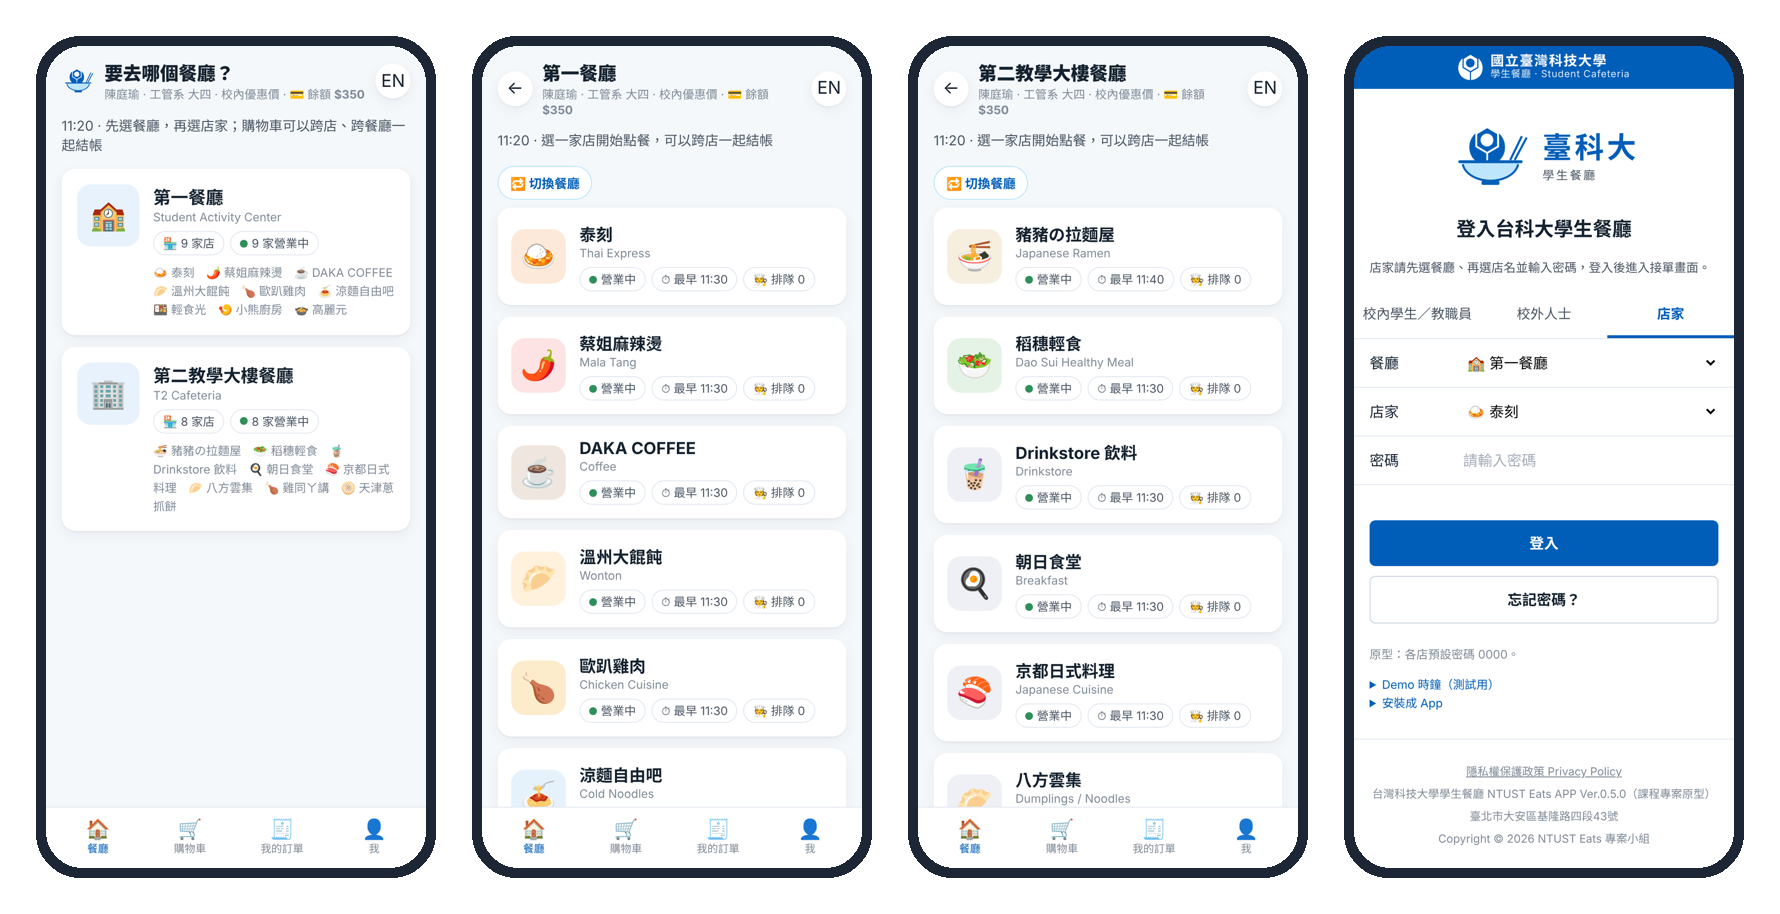
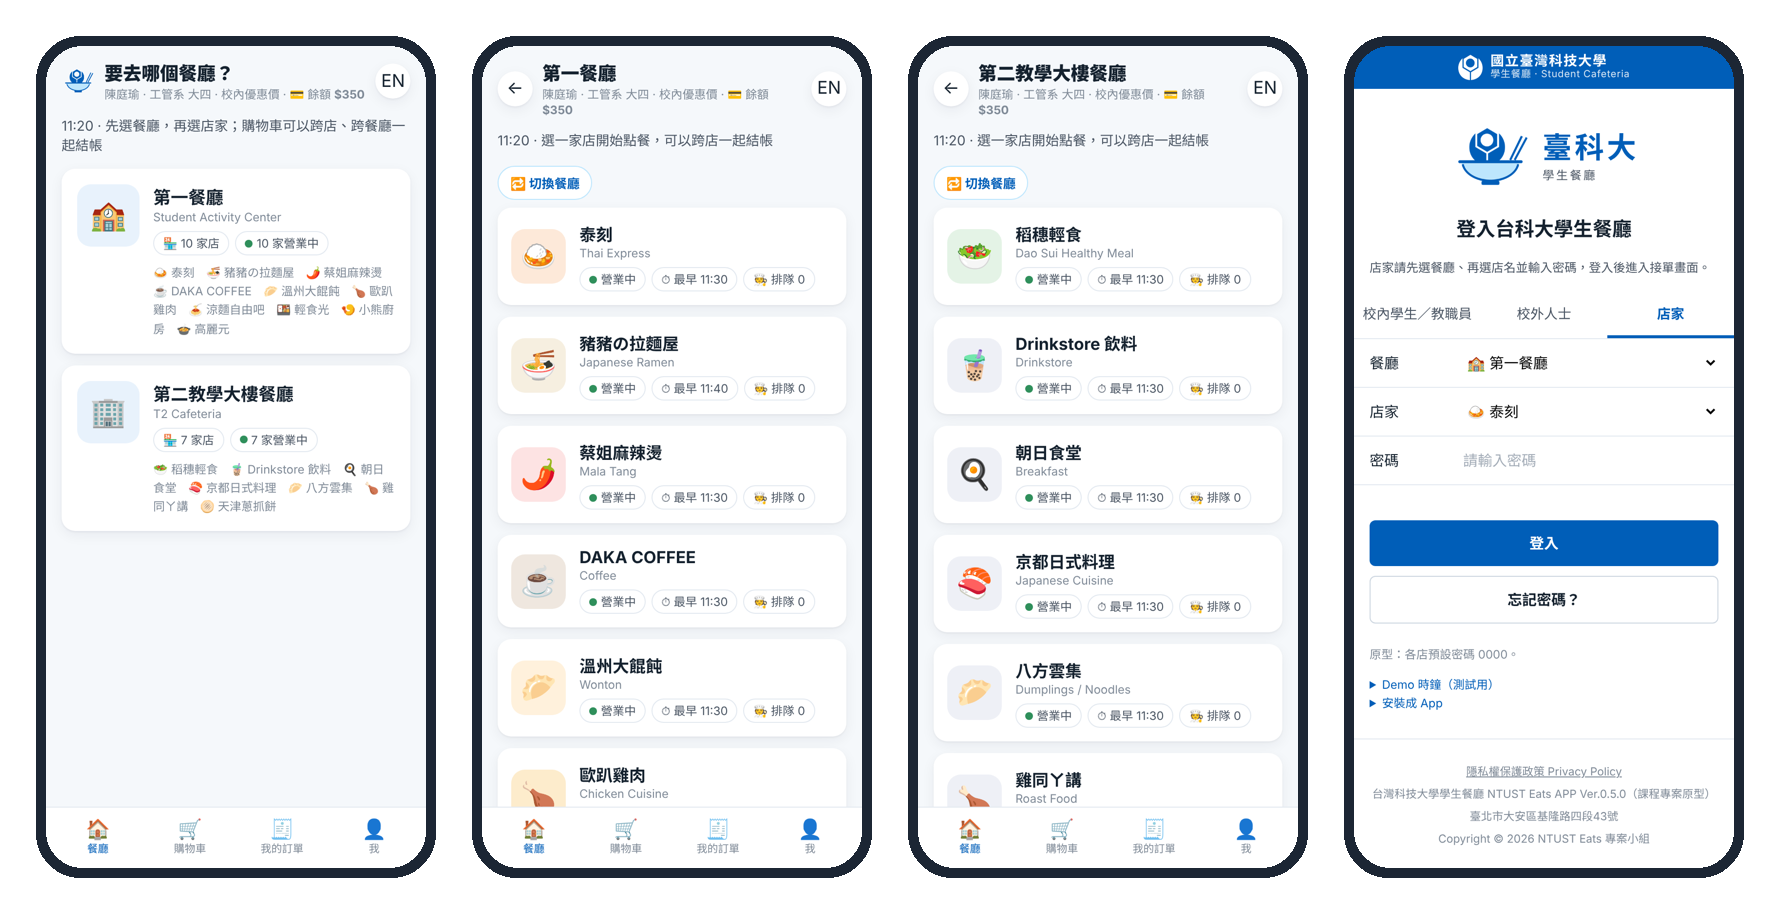
README：拉麵屋改屬第一餐廳、截圖更新
Claude-Session: https://claude.ai/code/session_017jSi1PNAT7cMJzLBuDKtYd

diff --git a/README.md b/README.md
@@ -5,8 +5,8 @@
 中午 12:10 下課、1:20 又要上課，泰刻和麻辣燙常排隊 20 分鐘。台科學餐讓師生**上課前先在手機點好、選 10 分鐘一格的取餐時段、線上付款**，下課出示 QR Code 取餐；店家用平板依時段接單。
 
 - 兩個學生餐廳、17 家店、734 道菜（校內價／校外價）。登入後先選餐廳，再選店家：
-  - **第一餐廳（學生活動中心）**：泰刻、蔡姐麻辣燙、DAKA COFFEE、溫州大餛飩、歐趴雞肉、涼麵自由吧、輕食光、小熊廚房、高麗元
-  - **第二教學大樓餐廳（T2）**：豬豬の拉麵屋、稻穗輕食、Drinkstore 飲料、朝日食堂、京都日式料理、八方雲集、雞同ㄚ講、天津蔥抓餅
+  - **第一餐廳（學生活動中心）**：泰刻、蔡姐麻辣燙、DAKA COFFEE、豬豬の拉麵屋、溫州大餛飩、歐趴雞肉、涼麵自由吧、輕食光、小熊廚房、高麗元
+  - **第二教學大樓餐廳（T2）**：稻穗輕食、Drinkstore 飲料、朝日食堂、京都日式料理、八方雲集、雞同ㄚ講、天津蔥抓餅
 - 線上試用：**[https://lululu525.github.io/NtustEats/](https://lululu525.github.io/NtustEats/)** （手機打開可「加入主畫面」當 App 用）
 
 ---
